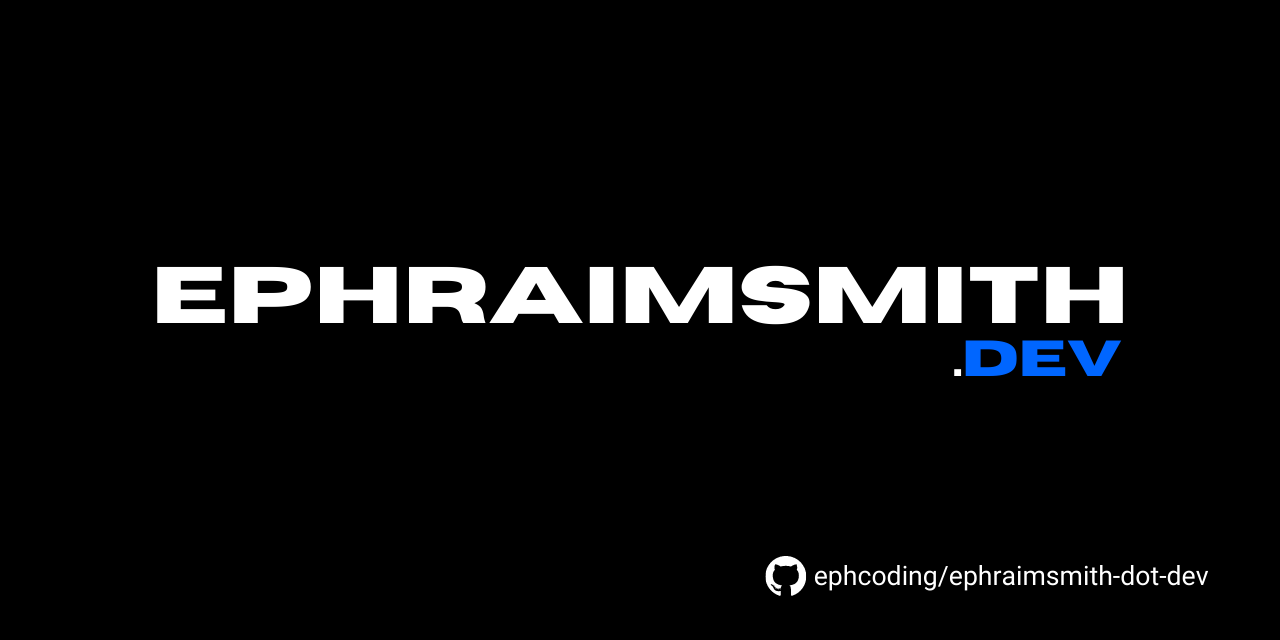
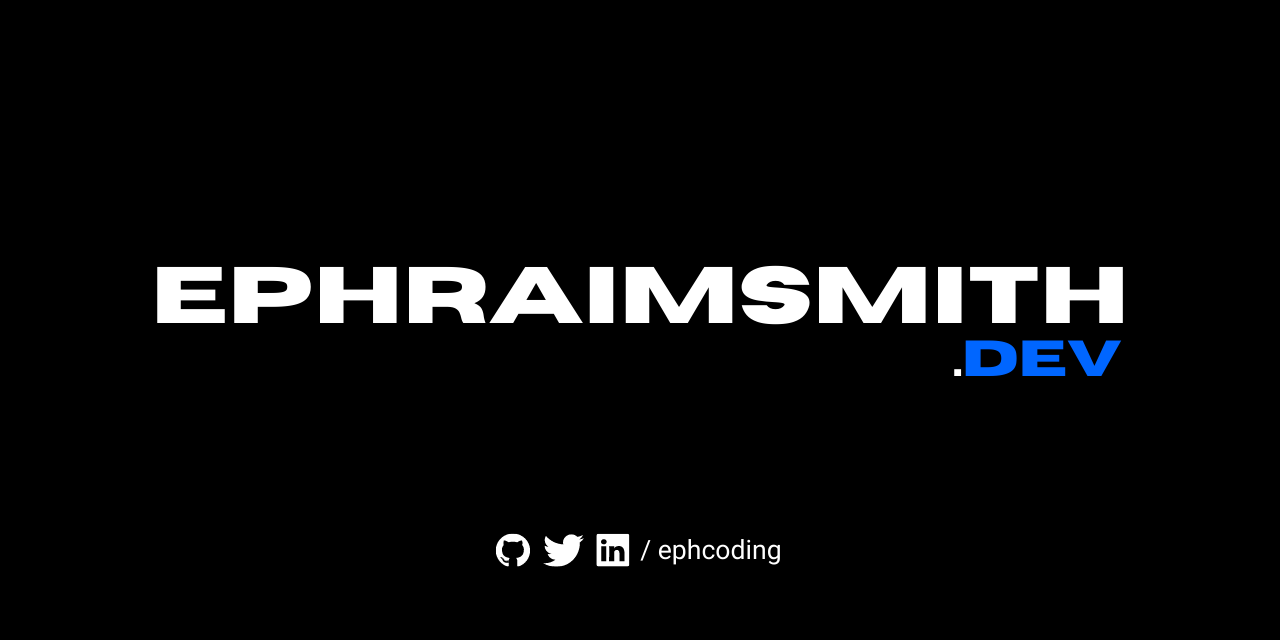
update meta images

Changed region(s): [[0.375, 0.8125, 0.9375, 0.9375]]

diff --git a/components/Page.jsx b/components/Page.jsx
@@ -42,7 +42,7 @@ export default function Page({ pageInfo, children }) {
 				/> */}
 				<meta
 					name='twitter:image'
-					content='https://repository-images.githubusercontent.com/378638394/7f8970e2-6225-45e2-b3cb-bed47e9f853e'
+					content='/repo-preview-ephraimsmith-dot-dev.png'
 				/>
 				<meta
 					name='twitter:description'
